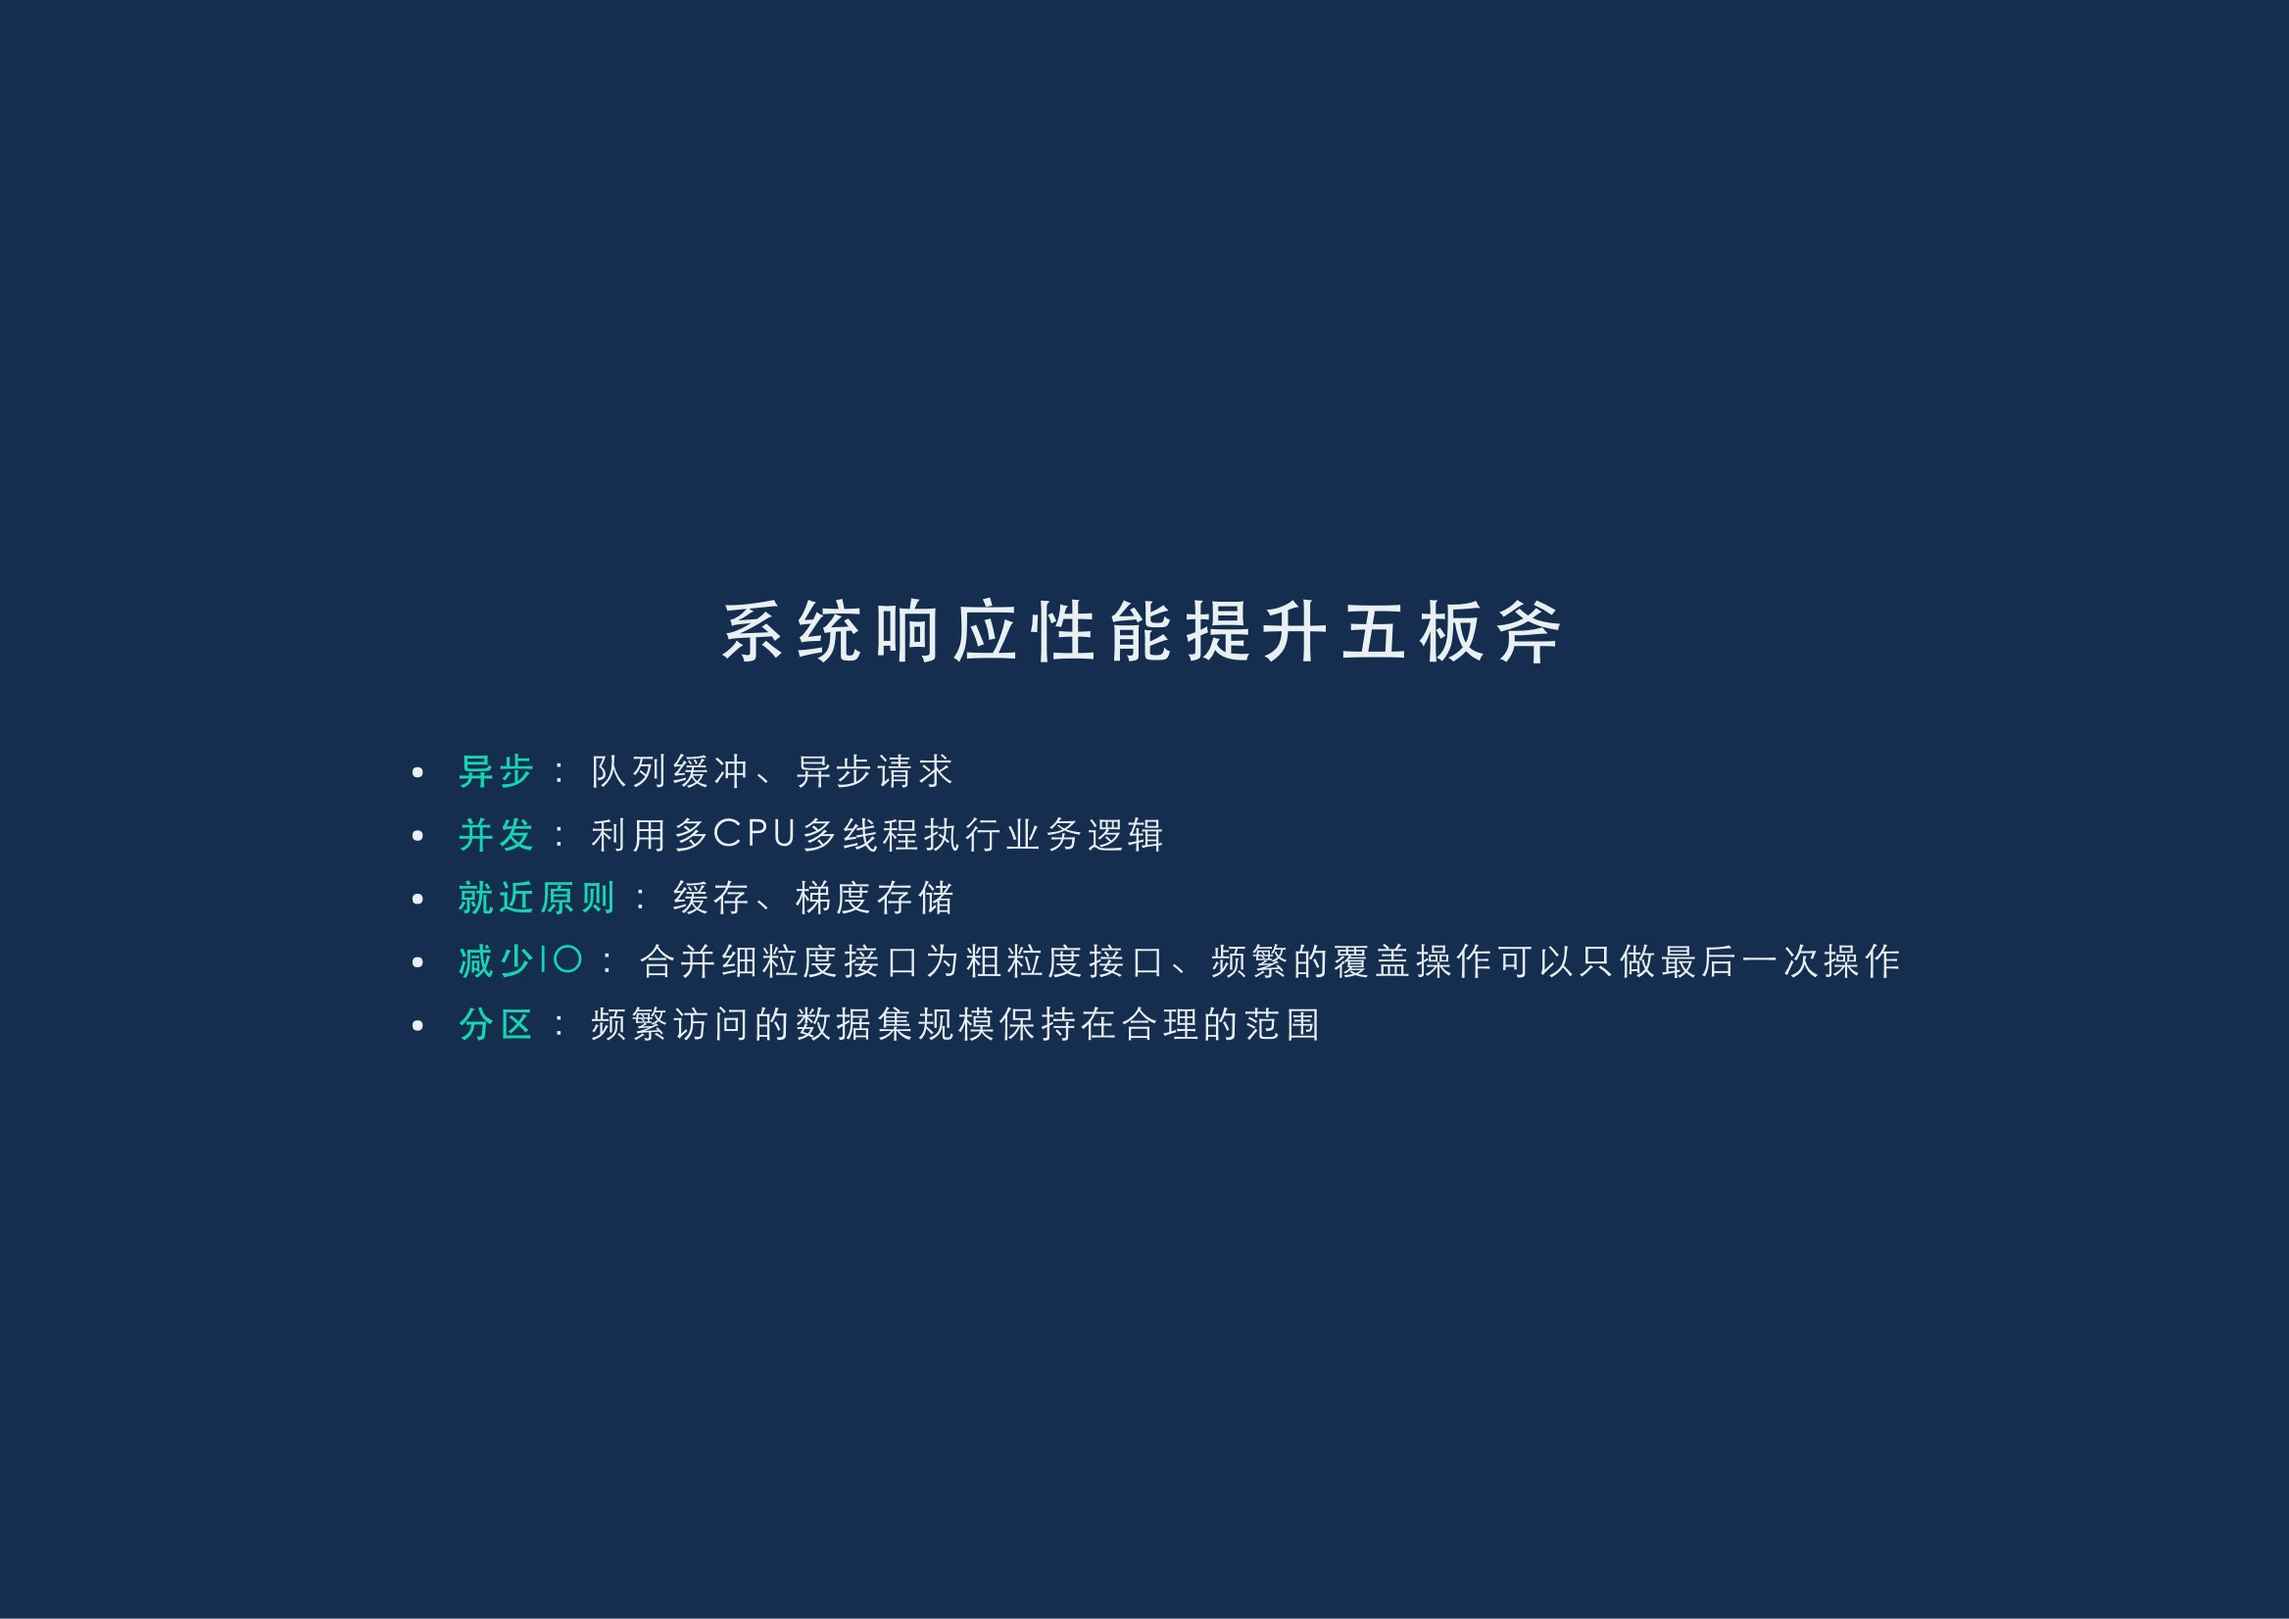
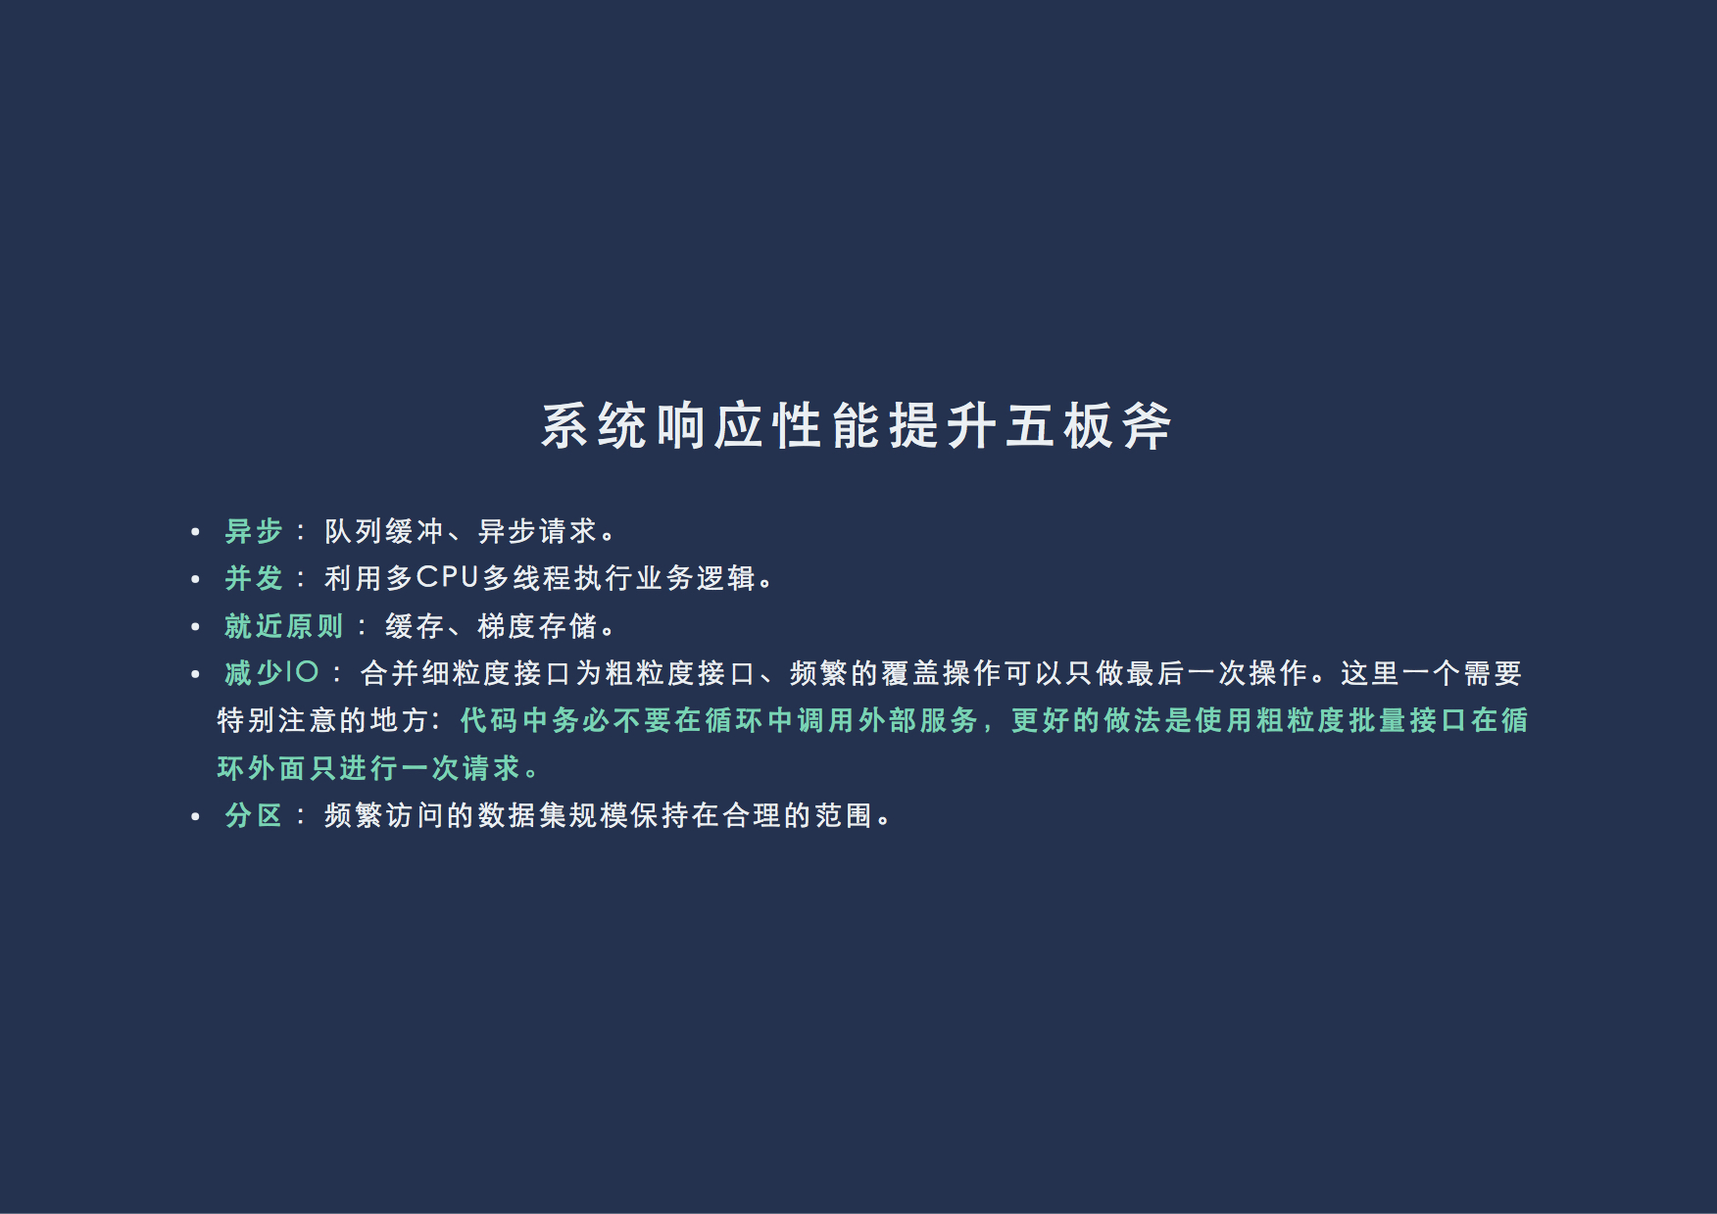
Site updated at 2017-08-29 07:57:25 UTC

Changed region(s): [[0.1233, 0.3067, 0.8938, 0.7054]]

diff --git a/arch-ppt/index.html b/arch-ppt/index.html
@@ -300,11 +300,11 @@
 </hgroup><article>
 
 <ul>
-<li><strong>异步</strong>：队列缓冲、异步请求</li>
-<li><strong>并发</strong>：利用多CPU多线程执行业务逻辑</li>
-<li><strong>就近原则</strong>：缓存、梯度存储</li>
-<li><strong>减少IO</strong>：合并细粒度接口为粗粒度接口、频繁的覆盖操作可以只做最后一次操作</li>
-<li><strong>分区</strong>：频繁访问的数据集规模保持在合理的范围</li>
+<li><strong>异步</strong>：队列缓冲、异步请求。</li>
+<li><strong>并发</strong>：利用多CPU多线程执行业务逻辑。</li>
+<li><strong>就近原则</strong>：缓存、梯度存储。</li>
+<li><strong>减少IO</strong>：合并细粒度接口为粗粒度接口、频繁的覆盖操作可以只做最后一次操作。这里一个需要特别注意的地方: <strong>代码中务必不要在循环中调用外部服务，更好的做法是使用粗粒度批量接口在循环外面只进行一次请求。</strong></li>
+<li><strong>分区</strong>：频繁访问的数据集规模保持在合理的范围。</li>
 </ul>
 
 </article></section></slide>
